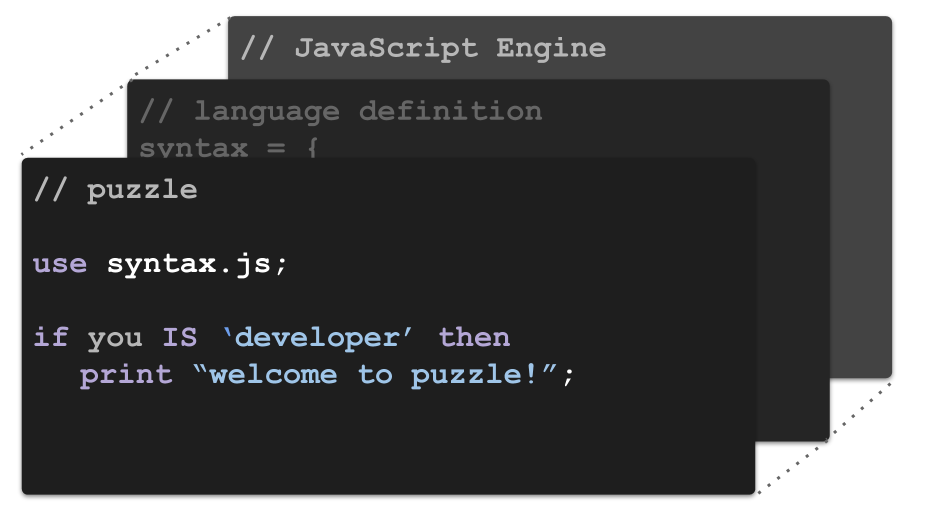
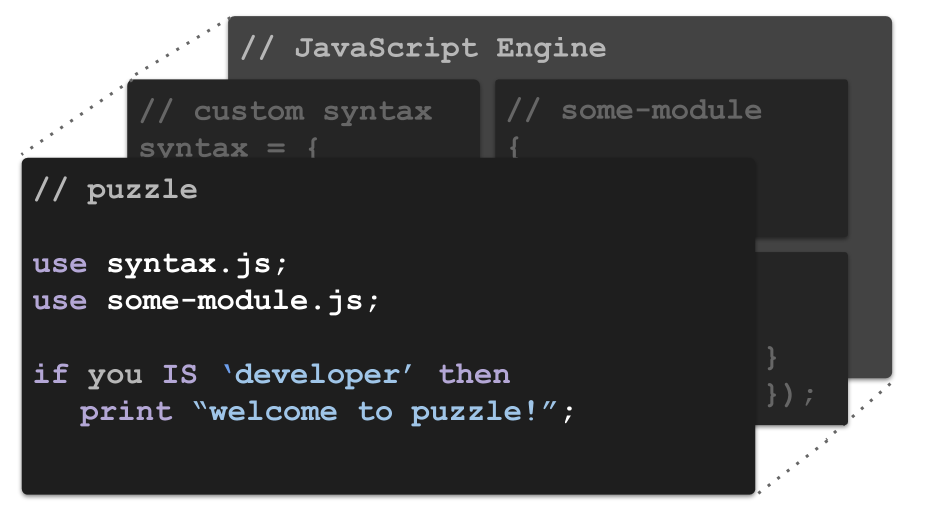
changed feature image

diff --git a/cover.html b/cover.html
@@ -62,7 +62,7 @@
                         </div>
                         <label class="leto-text-lg leto-text-darker-grey">DSLs</label>
                     </div-->
-                    <img src="puzzle-feature-stack.png" style="max-width: 100%;width:600px">
+                    <img src="puzzle-code-feature.png" style="max-width: 100%;width:600px">
                 </div>
 
                 <div class="leto-mt-xxl">
